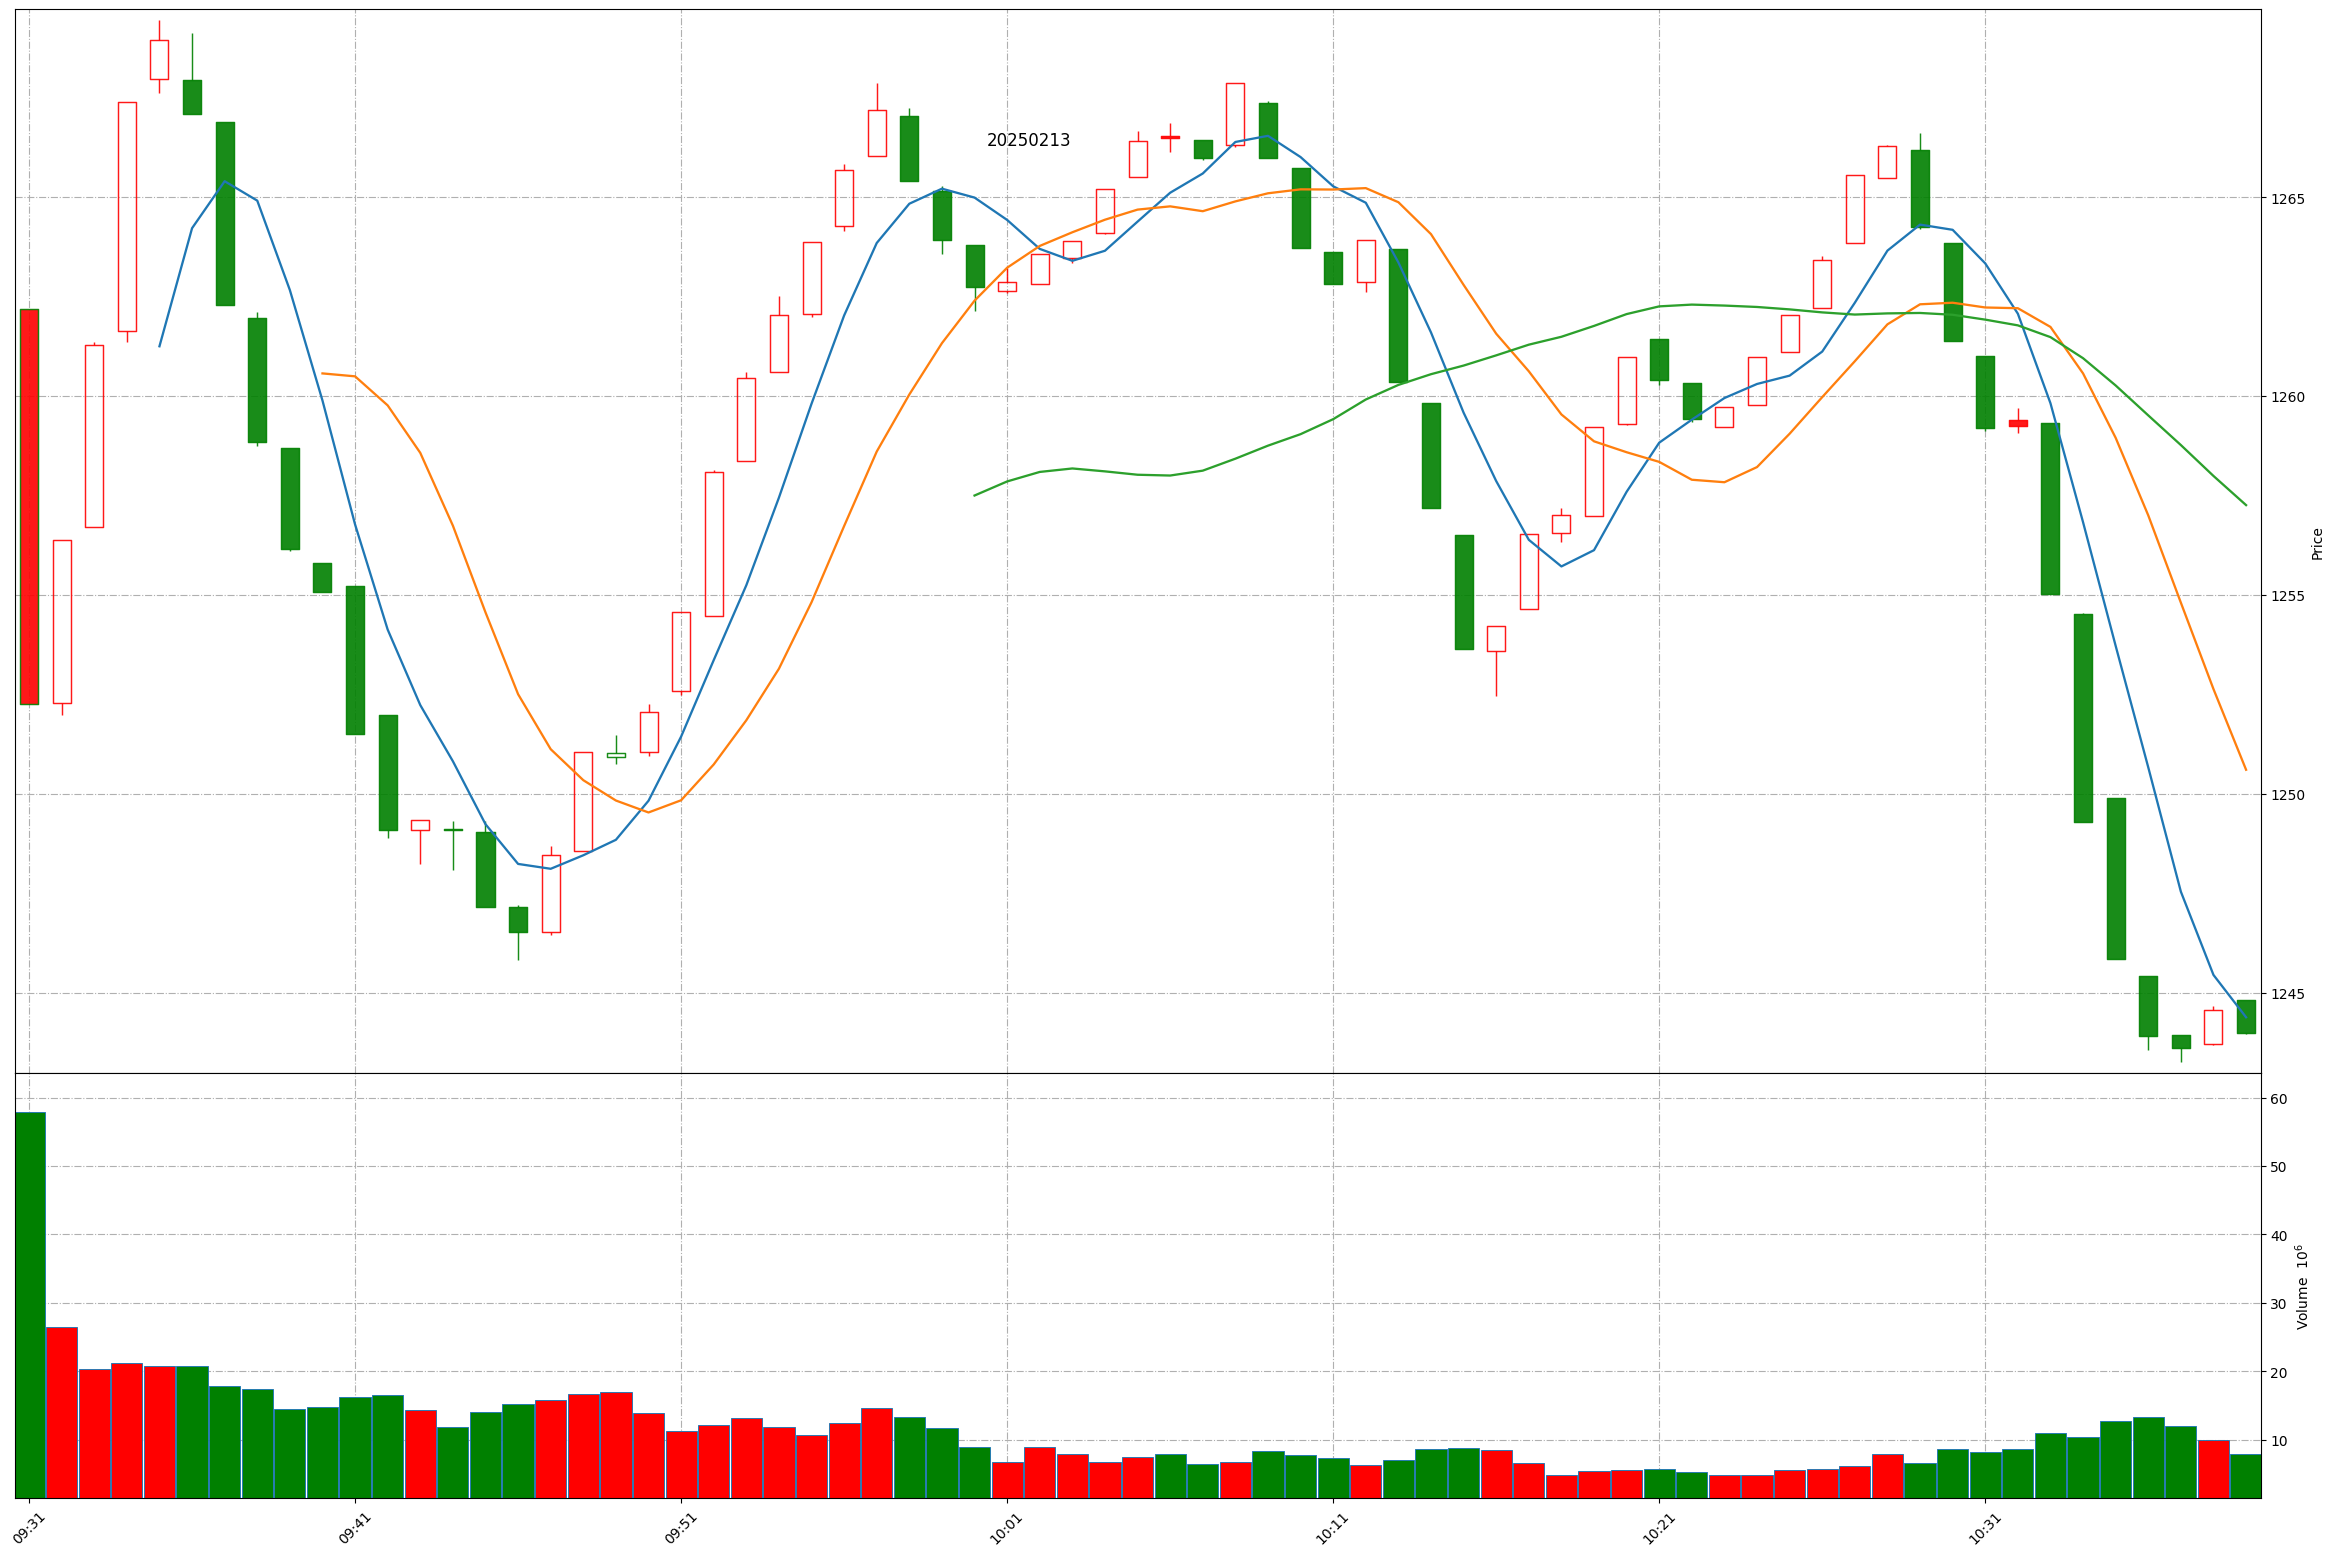
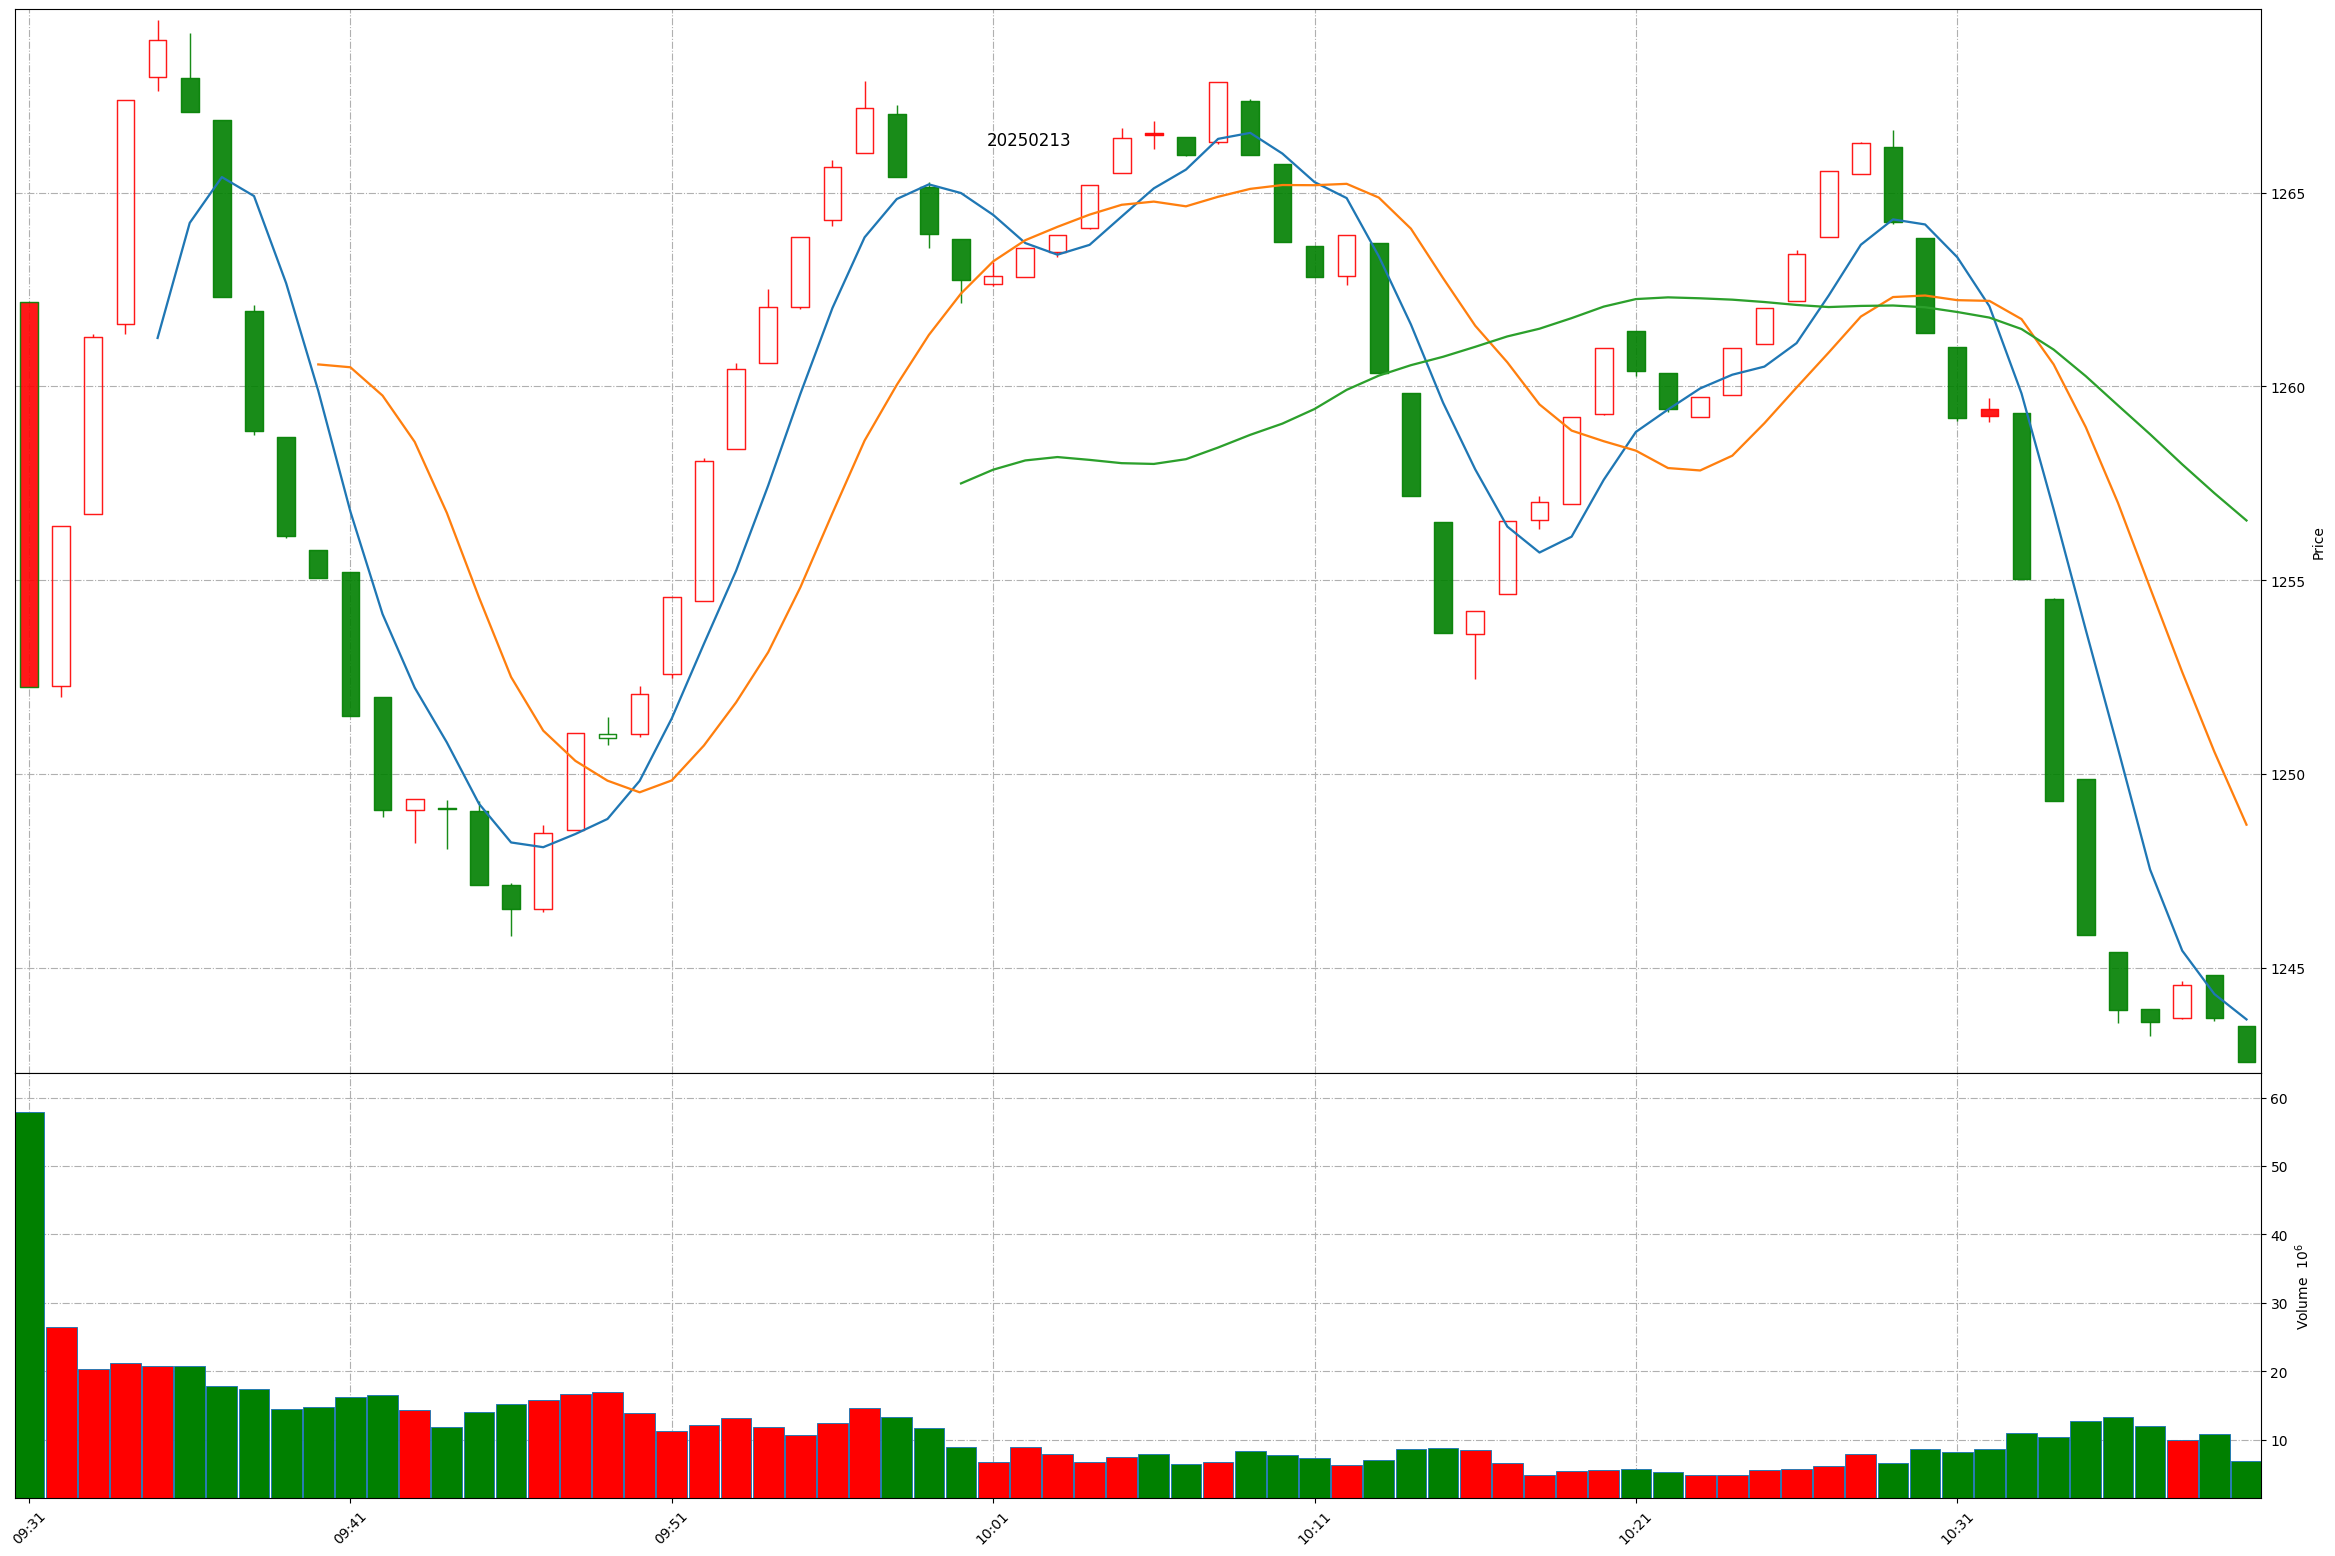
Github action update at 2025-02-13 10:40:08.

diff --git a/README.md b/README.md
@@ -1,11 +1,11 @@
 
 # Daily-A-share-market-quotes 每日 A 股指数（5min 更新）- 20250213
 
-### 上证指数 20250213 10:38
+### 上证指数 20250213 10:40
 ![](./fig/2025/2/20250213-sh000001.png)
 
-### 深证成指 20250213 10:38
+### 深证成指 20250213 10:40
 ![](./fig/2025/2/20250213-sz399001.png)
 
-### 北证50 20250213 10:38
+### 北证50 20250213 10:40
 ![](./fig/2025/2/20250213-bj899050.png)
